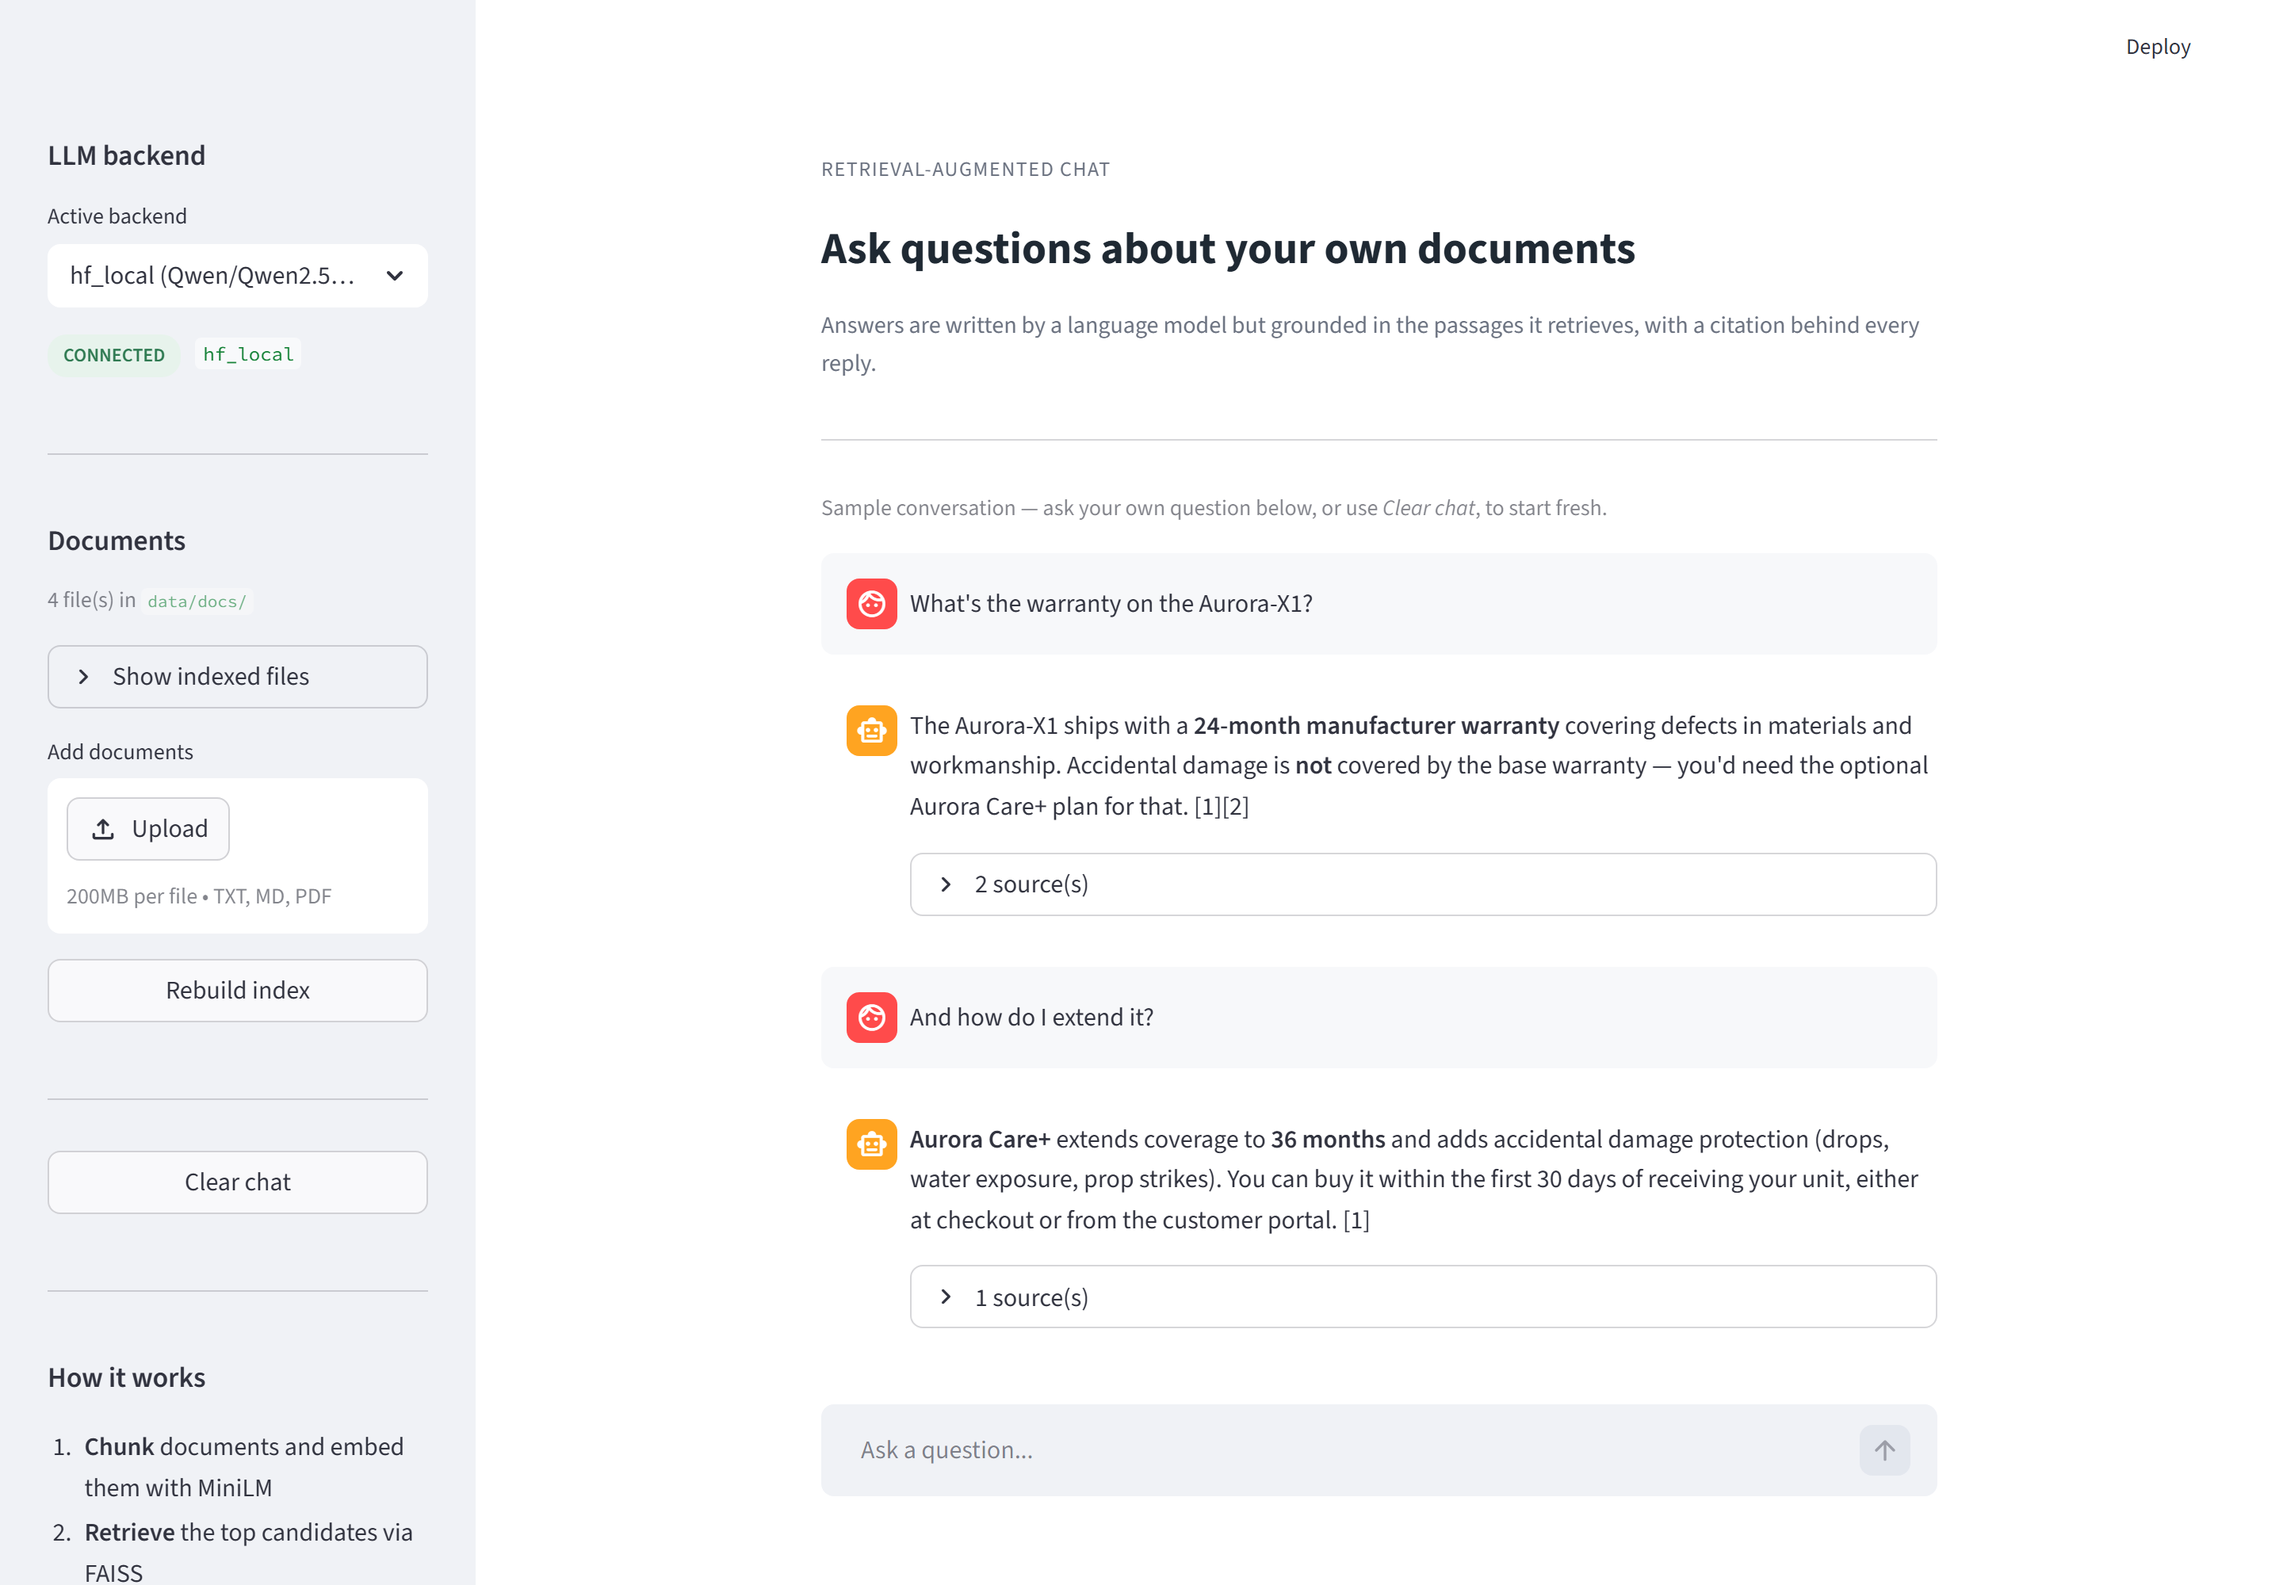
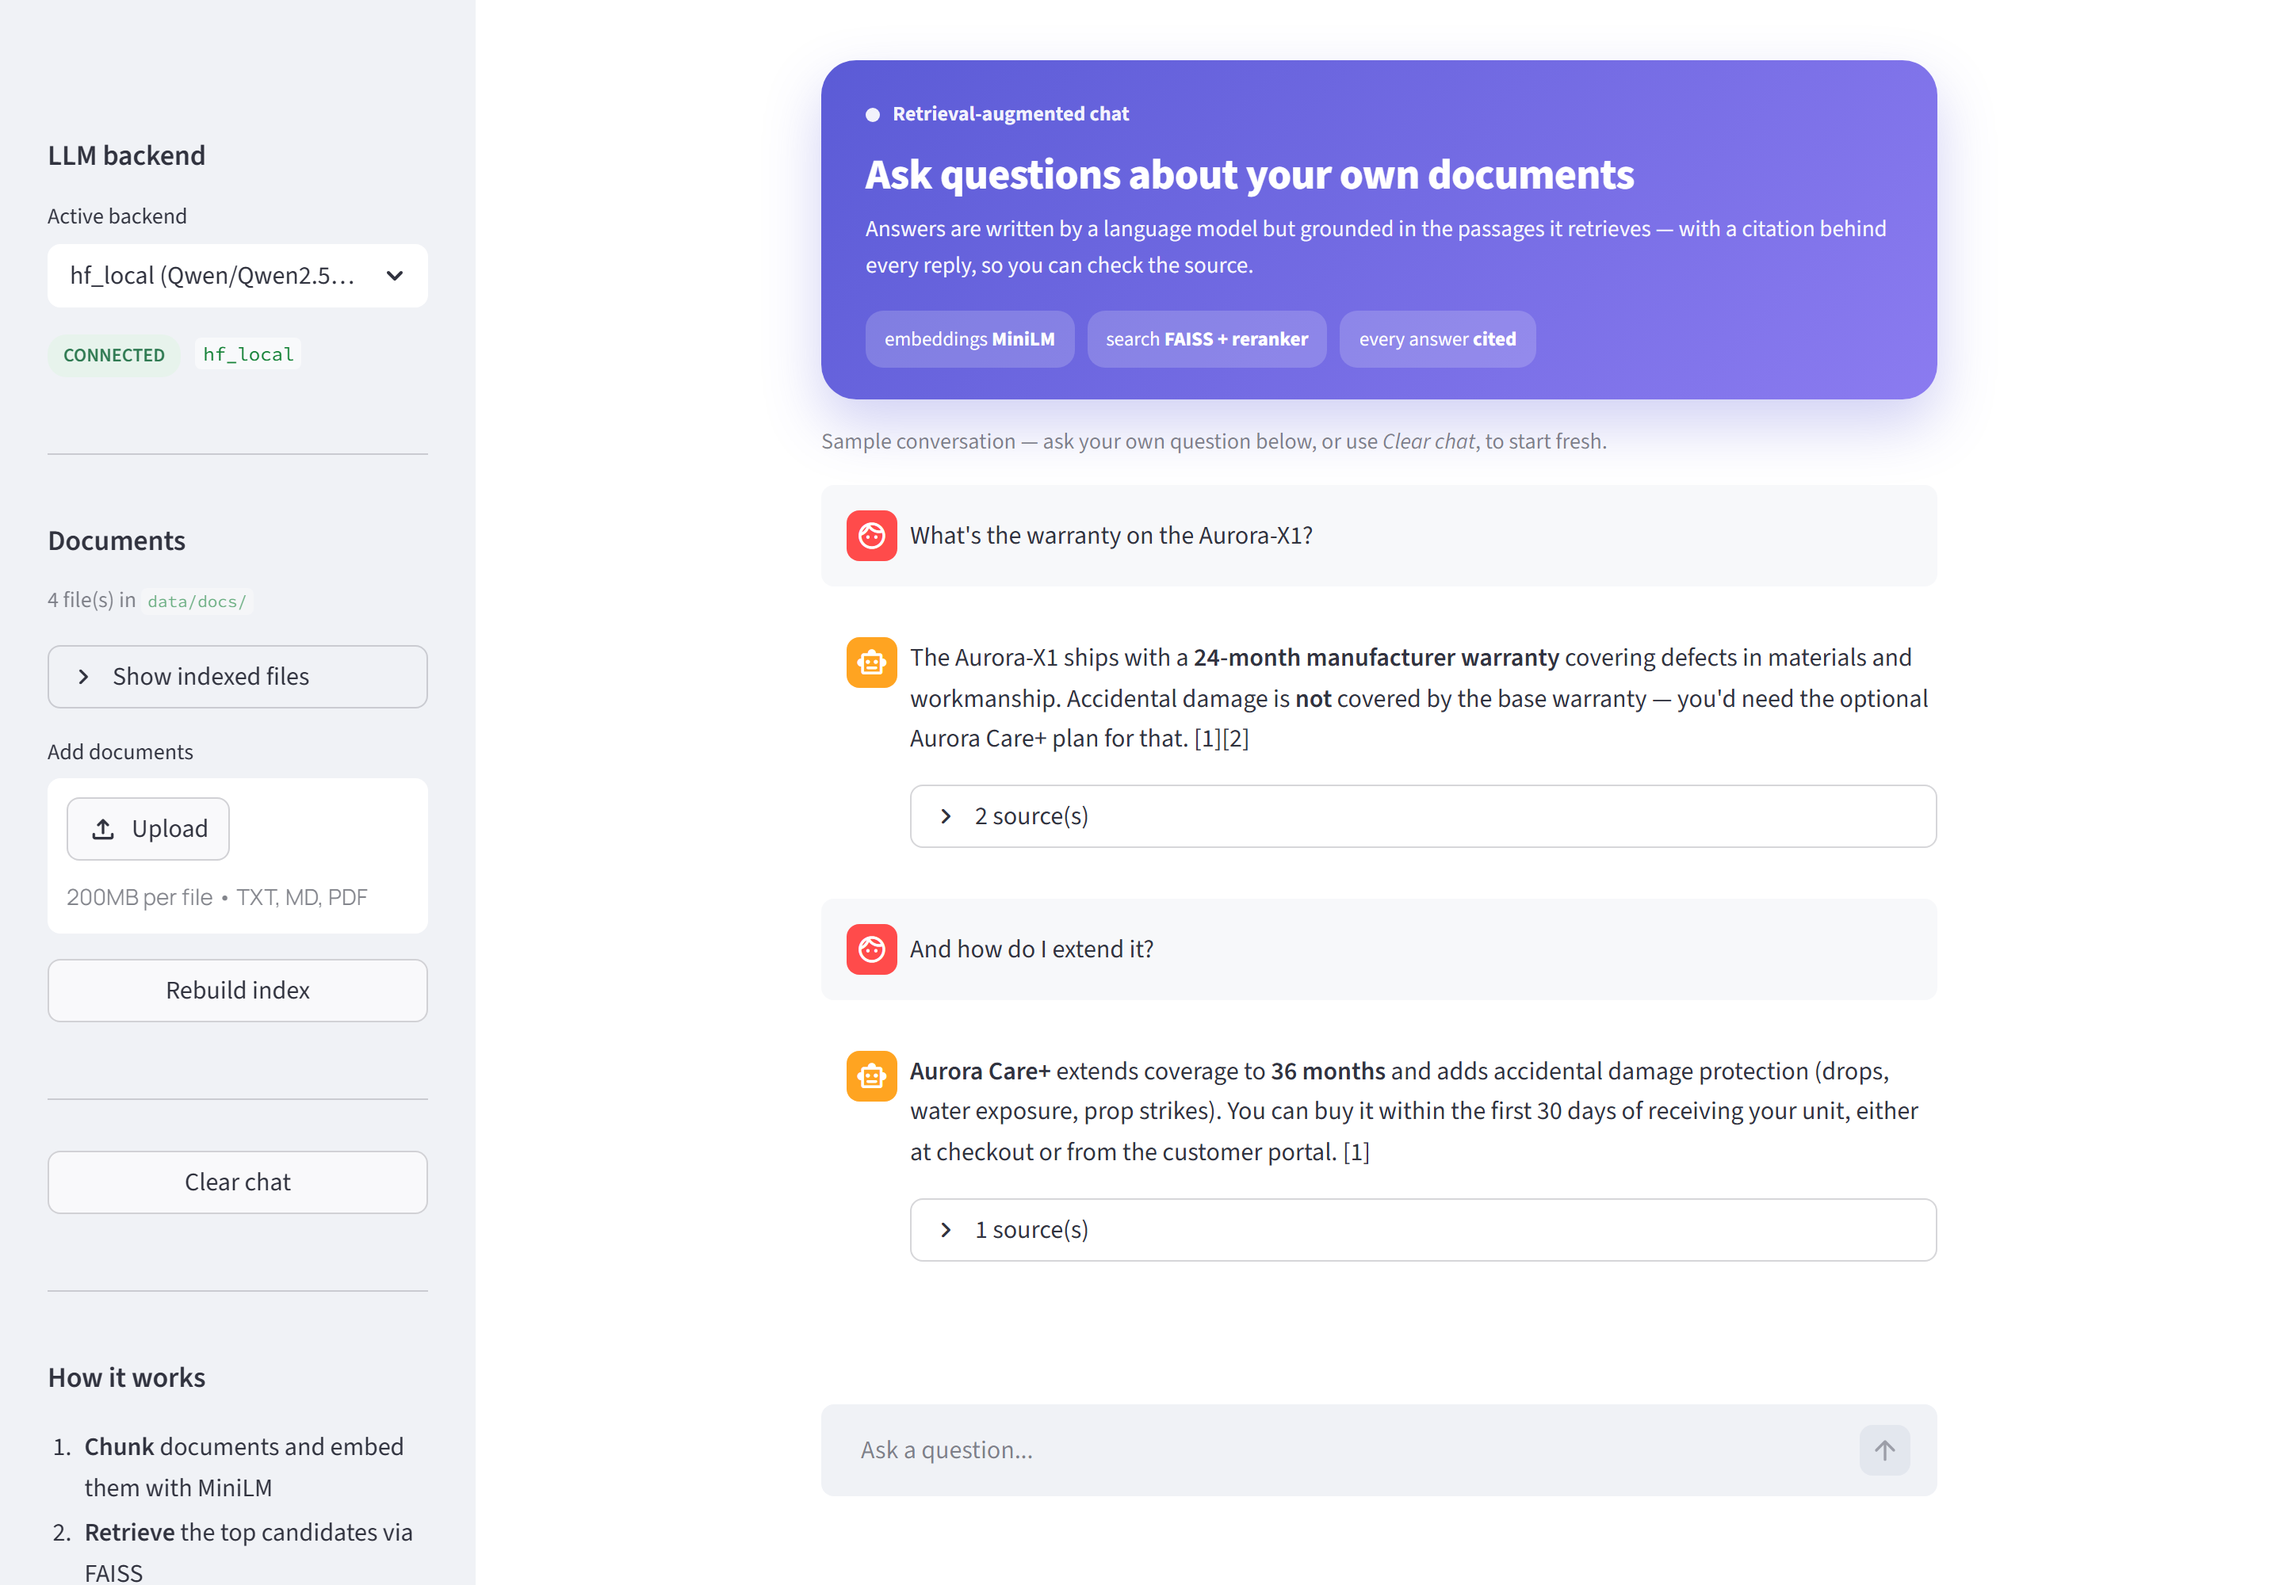
Restyle chat UI with a fintech-app hero
Indigo gradient header with method chips (MiniLM, FAISS + reranker,
citations) and Manrope type. Refresh the preview screenshot.

Changed region(s): [[0.3438, 0.031, 0.875, 0.279], [0.3438, 0.31, 0.8438, 0.837], [0.0312, 0.558, 0.1562, 0.589]]

diff --git a/app/streamlit_app.py b/app/streamlit_app.py
@@ -38,16 +38,32 @@ st.set_page_config(
 st.markdown(
     """
     <style>
-    #MainMenu, footer {visibility: hidden;}
+    @import url('https://fonts.googleapis.com/css2?family=Manrope:wght@400;500;600;700;800&display=swap');
+    html, body, [class*="css"], .stMarkdown, button, input, textarea {
+        font-family: 'Manrope', system-ui, sans-serif;
+    }
+    #MainMenu, header, footer { visibility: hidden; }
+    .block-container { padding-top: 1.4rem; }
+
     .badge {
-        display: inline-block;
-        background: #eef0f2; color: #3a434d;
+        display: inline-block; background: #eef0f2; color: #3a434d;
         padding: 4px 10px; border-radius: 12px;
-        font-size: 12px; font-weight: 600;
-        margin-right: 6px;
+        font-size: 12px; font-weight: 600; margin-right: 6px;
     }
     .badge.ok { background: #e7f3ec; color: #2f7a52; }
     .badge.warn { background: #fbf1e2; color: #9a6a18; }
+
+    .hero { background: linear-gradient(135deg, #5B5BD6 0%, #8B7BF0 100%);
+        border-radius: 22px; padding: 24px 28px 20px 28px; color:#fff;
+        box-shadow: 0 16px 36px rgba(91,91,214,.28); }
+    .hero .brand { font-size:13px; font-weight:700; opacity:.92; display:flex;
+        align-items:center; gap:8px; }
+    .hero .dot { width:9px; height:9px; border-radius:50%; background:#fff; display:inline-block; }
+    .hero .value { font-size:27px; font-weight:800; line-height:1.15; margin-top:12px; letter-spacing:-.4px; }
+    .hero .sub { font-size:14.5px; opacity:.95; margin-top:7px; }
+    .chips { display:flex; gap:8px; flex-wrap:wrap; margin-top:16px; }
+    .chip { background: rgba(255,255,255,.18); border-radius:11px; padding:8px 12px; font-size:12.5px; }
+    .chip b { font-weight:800; }
     </style>
     """,
     unsafe_allow_html=True,
@@ -55,19 +71,21 @@ st.markdown(
 
 st.markdown(
     """
-    <div style="margin:-6px 0 4px 0;">
-      <div style="font-size:13px; letter-spacing:.8px; color:#6b7280;
-                  text-transform:uppercase;">Retrieval-augmented chat</div>
-      <h1 style="margin:2px 0 4px 0; font-size:28px; font-weight:700; color:#1f2933;">
-        Ask questions about your own documents</h1>
-      <div style="font-size:15px; color:#6b7280;">
-        Answers are written by a language model but grounded in the passages it
-        retrieves, with a citation behind every reply.</div>
+    <div class="hero">
+      <div class="brand"><span class="dot"></span> Retrieval-augmented chat</div>
+      <div class="value">Ask questions about your own documents</div>
+      <div class="sub">Answers are written by a language model but grounded in the passages
+        it retrieves — with a citation behind every reply, so you can check the source.</div>
+      <div class="chips">
+        <span class="chip">embeddings <b>MiniLM</b></span>
+        <span class="chip">search <b>FAISS + reranker</b></span>
+        <span class="chip">every answer <b>cited</b></span>
+      </div>
     </div>
     """,
     unsafe_allow_html=True,
 )
-st.divider()
+st.write("")
 
 # --------------------------------------------------------------------------- #
 # Sidebar — backend, settings, document management
